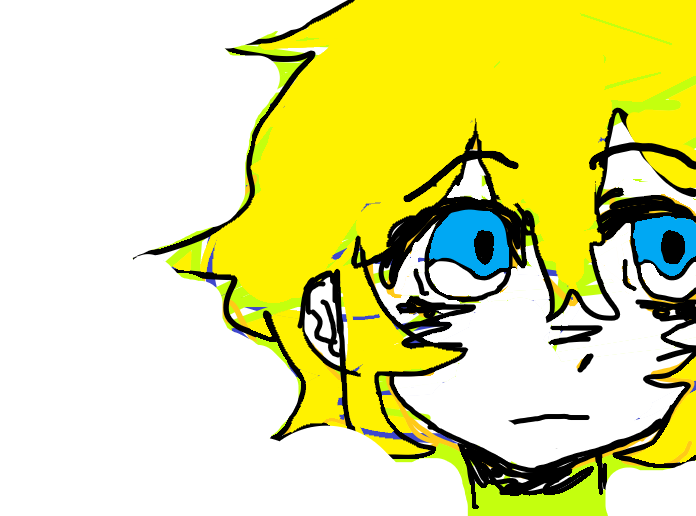
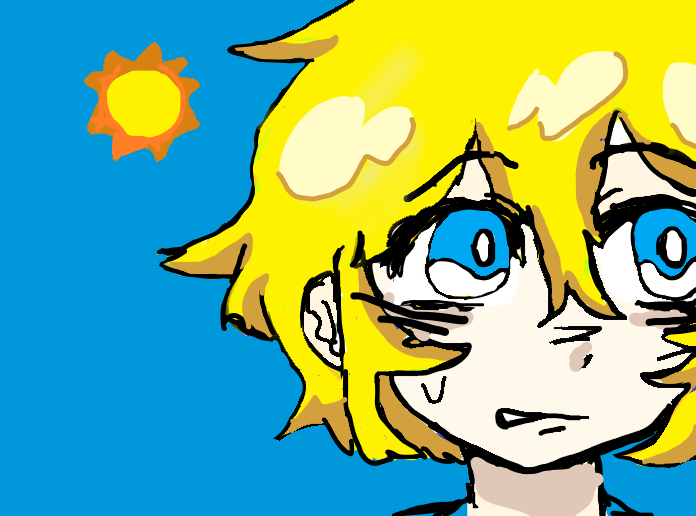
scuti

diff --git a/css/style.css b/css/style.css
@@ -21,9 +21,9 @@ Referências: https://fontawesome.com
 :root {
    --wrap-max-width: 1080px;
    --defalt-links: rgb(25, 19, 80);
-   --defalt-links-houver: orangered;
-   --body-backgroud-image: rgb(150, 68, 68);
-   --body-backgrond-color: purple;
+   --defalt-links-houver: rgb(89, 0, 255);
+   --body-backgroud-image: url("../img/bg02.png");
+   --body-backgrond-color: #800080;
    --header-backgrond-color: rgb(127, 111, 245);
    --header-logo-front: Arial, helvetica, sans-serif;
    --header-title-stroke: rgb(61, 61, 82);
@@ -31,9 +31,9 @@ Referências: https://fontawesome.com
    --article-section-background-color: rgba(146, 118, 104, 0.863);
    --aside-background-color: rgb(78, 94, 114);
    --top-search-border: 3px dotted rgb(102, 102, 109);
-   --nav-menu-color: rgb(25, 19, 80);
-   --nav-menu-hover-color: rgb(107, 70, 70);
-   --nav-menu-hover-bg-color: rgb(168, 0, 0);
+   --nav-menu-color: rgb(21, 12, 37);
+   --nav-menu-hover-color: rgb(161, 186, 233);
+   --nav-menu-hover-bg-color: rgb(79, 34, 116);
 }
 
 /* Reset Geral*/
@@ -100,7 +100,7 @@ a:hover {
 /*Tela de fundo*/
 body {
    /* background: linear-gradient(to right, blue,red,cyan); */
-   background-color: var(--body-backgroud-image);
+   background-image: var(--body-backgroud-image);
    background-color: var(--body-backgroud-color);
    background-position: center;
    background-repeat: no-repeat;
@@ -276,7 +276,7 @@ wrap>main section,
    background-color: var(--nav-footer-background-color);
    margin: 0 .5rem;
    border-radius: .5rem;
-   color: white;
+   color: rgb(0, 0, 0);
 }
 
 /* Hack para margem do último elemento */
@@ -322,13 +322,13 @@ wrap>main section,
 
     padding: 20px;
 
-    background-color: #ffffff;
-    color: #222222;
+    background-color: #bdb5b5;
+    color: #181536;
 
-    border: 1px solid #cccccc;
+    border: 1px solid #627776;
     border-radius: 10px;
 
-    box-shadow: 0 4px 20px rgba(0, 0, 0, 0.25);
+    box-shadow: 0 4px 20px rgba(86, 103, 117, 0.25);
 
     z-index: 9999;
 }
@@ -353,7 +353,7 @@ wrap>main section,
     border-radius: 5px;
 
     background-color: #004953;
-    color: white;
+    color: rgb(233, 227, 227);
 
     cursor: pointer;
 }

diff --git a/js/javascript.js b/js/javascript.js
@@ -8,11 +8,11 @@ const cookieAccept = document.getElementById("cookie-accept")
 
 // Verifica se o usuario ja aceitou os cookies
 if (localStorage.getItem("cookiesAcepted") === "true") {
-    cookieBanner.styler.display= "none";
+    cookieBanner.style.display= "none";
 }
 
 // Botao "acriatar"
 cookieAccept.addEventListener("click", function () {
     localStorage.setItem("cookiesAcepted", "true");
-    cookieBanner.styler.display= "none";
+    cookieBanner.style.display= "none";
 });

diff --git a/index.html b/index.html
@@ -6,7 +6,7 @@
     <!-- Importa o CSS do template (principal) -->
     <link rel="stylesheet" href="css/style.css" />
     <link rel="icon" href="img/heard.jpg" />
-    <title>FirstSteps</title>
+    <title>Tabby</title>
   </head>
 
   <body>
@@ -177,7 +177,7 @@
         </p>
       </div>
 
-      <button id="cookie-acept" type="button">Aceitar</button>
+      <button id="cookie-accept" type="button">Aceitar</button>
     </div>
 
     <script>
